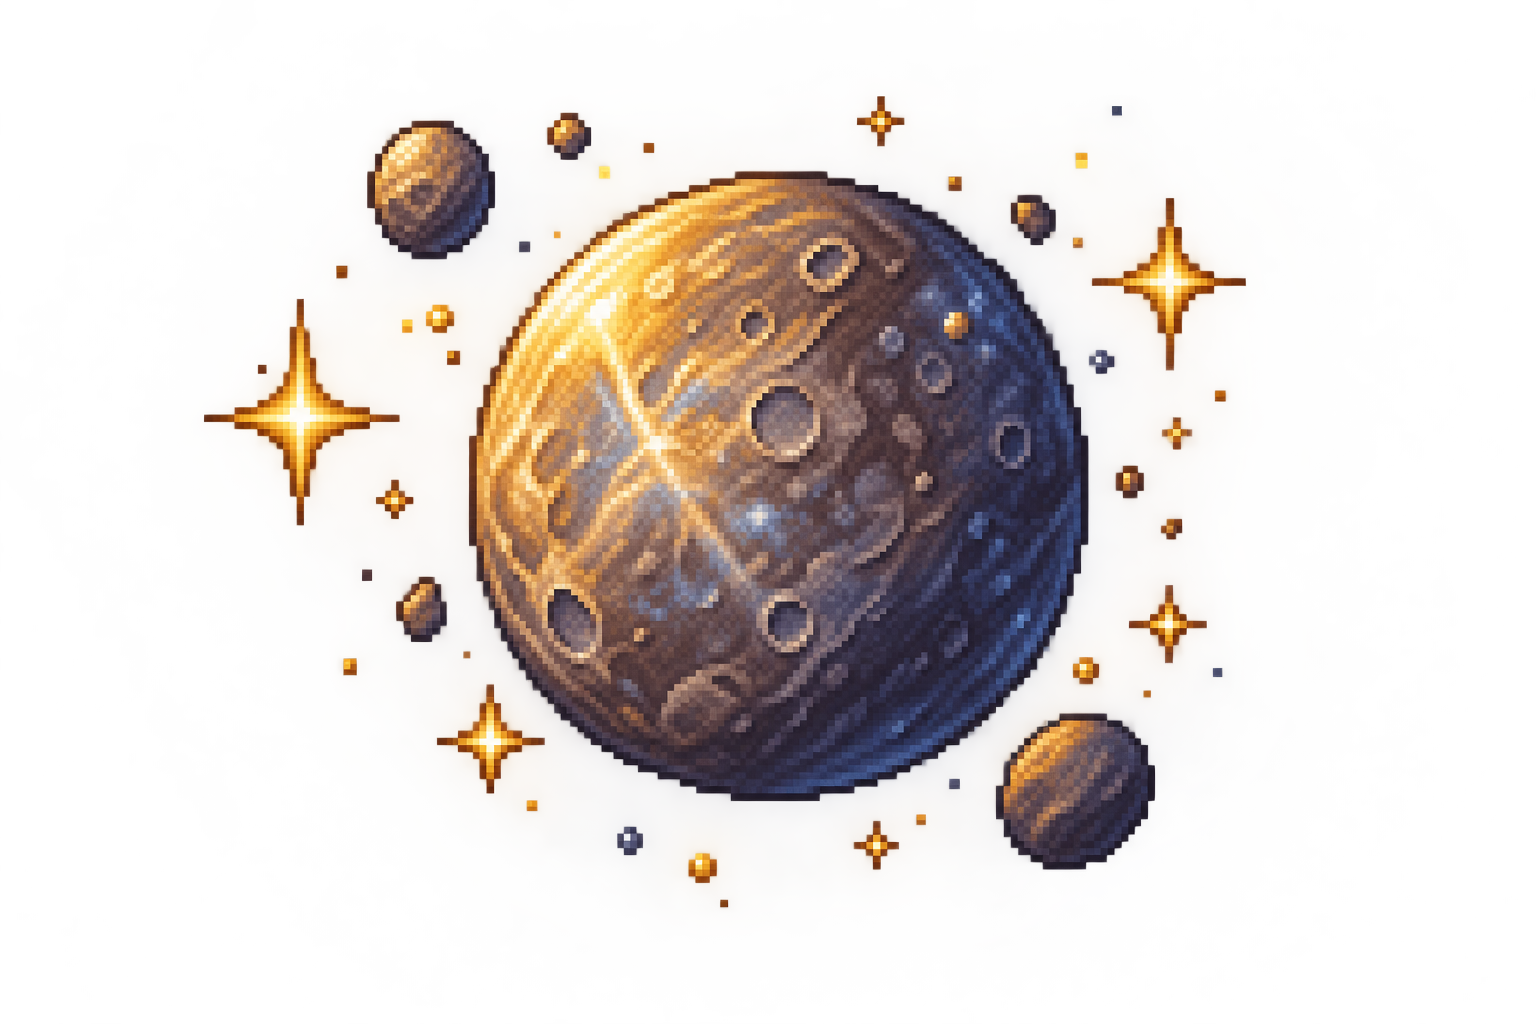
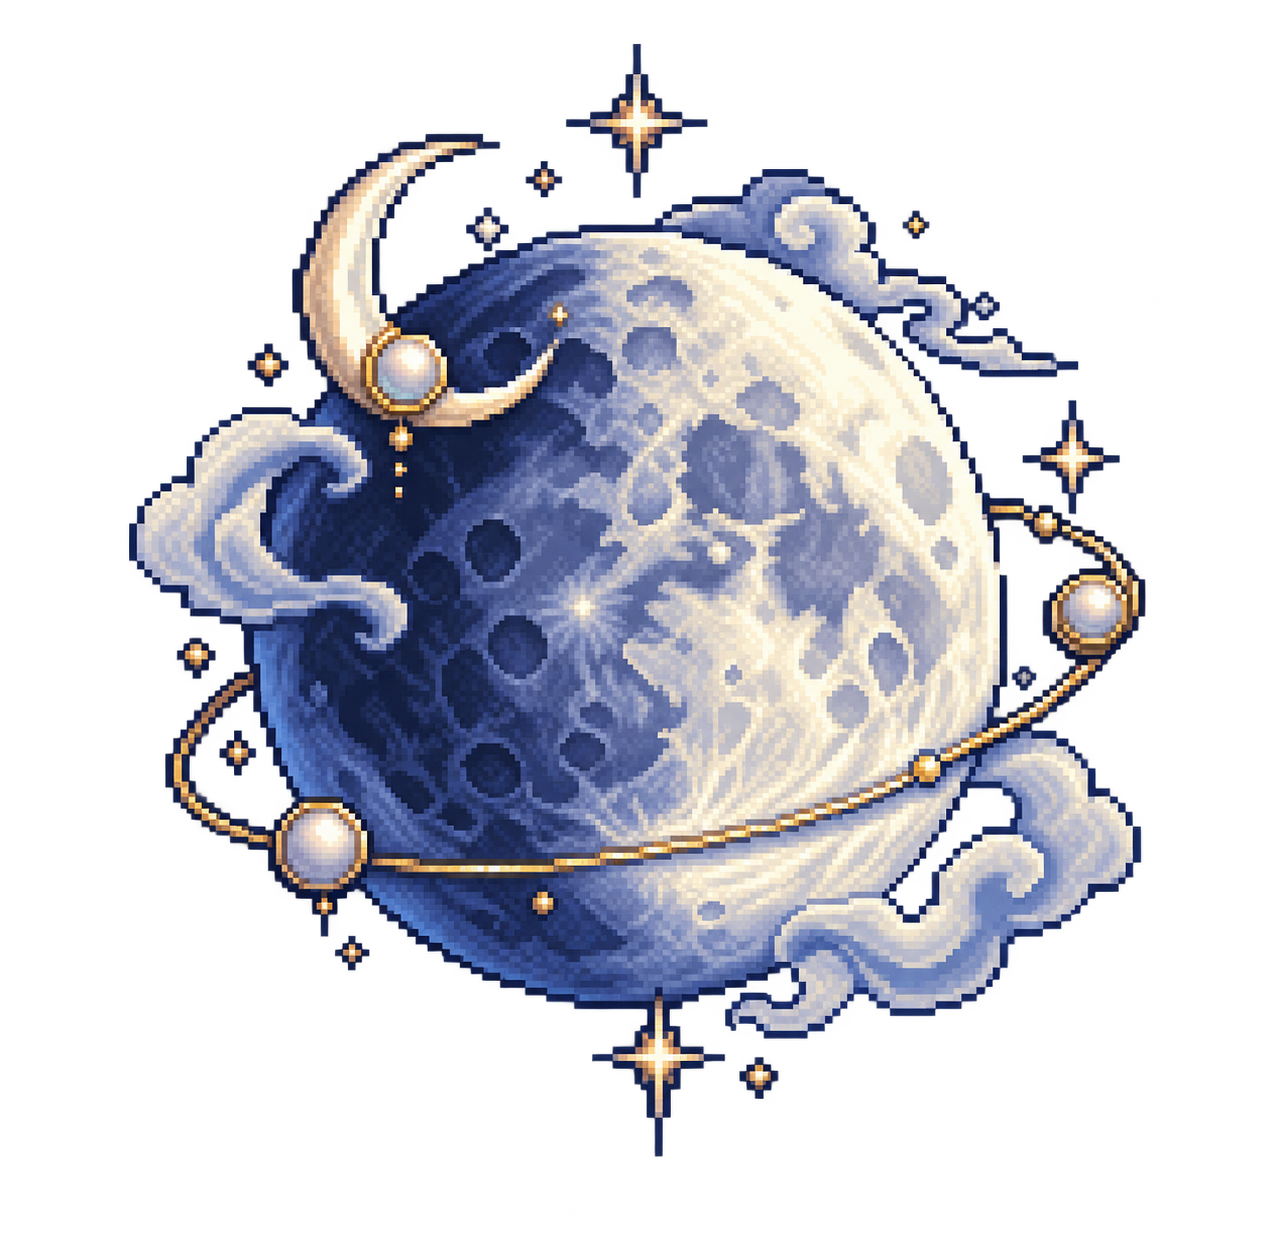
Add Venus/Mars/Mercury/Sun to the console demo, fix Moon distortion
- planet-moon.png was replaced with a new near-square image (1275x1233)
  but the HTML still had the old file's box (88x59, a 1.5 landscape
  ratio) hardcoded, stretching it badly. Recomputed from the new file's
  actual aspect ratio and alpha-core fill fraction: 66x64.
- Added planet-venus.png, planet-mars.png, planet-mercury.png (already
  dropped into assets/illustrations) and sun-emblem.png as three more
  draggable planets, sized the same way (target apparent sphere size /
  each image's own alpha-core fill fraction, aspect ratio preserved) and
  placed at previously-empty house centers on the chart.
- Console now has 7 draggable planets total: Saturn, Moon, Jupiter,
  Venus, Mars, Mercury, Sun.

Verified all 7 image files' real dimensions server-side via cache-busted
fetch (this session's browser profile was serving stale cached bytes for
already-tested URLs, unrelated to the actual deployed files).

diff --git a/index.html b/index.html
@@ -158,8 +158,12 @@
             <div class="console-chart-zone" id="chart-zone">
               <!-- house drop zones injected by JS -->
               <img class="draggable-planet" src="/assets/illustrations/planet-saturn.png" alt="Сатурн" draggable="false" style="left:25%; top:50%; width:74px; height:74px;" data-planet="saturn" />
-              <img class="draggable-planet" src="/assets/illustrations/planet-moon.png" alt="Луна" draggable="false" style="left:50%; top:25%; width:88px; height:59px;" data-planet="moon" />
+              <img class="draggable-planet" src="/assets/illustrations/planet-moon.png" alt="Луна" draggable="false" style="left:50%; top:25%; width:66px; height:64px;" data-planet="moon" />
               <img class="draggable-planet" src="/assets/illustrations/planet-jupiter.png" alt="Юпитер" draggable="false" style="left:75%; top:50%; width:48px; height:48px;" data-planet="jupiter" />
+              <img class="draggable-planet" src="/assets/illustrations/planet-venus.png" alt="Венера" draggable="false" style="left:50%; top:75%; width:56px; height:56px;" data-planet="venus" />
+              <img class="draggable-planet" src="/assets/illustrations/planet-mars.png" alt="Марс" draggable="false" style="left:75%; top:12%; width:58px; height:58px;" data-planet="mars" />
+              <img class="draggable-planet" src="/assets/illustrations/planet-mercury.png" alt="Меркурий" draggable="false" style="left:25%; top:91.67%; width:84px; height:56px;" data-planet="mercury" />
+              <img class="draggable-planet" src="/assets/illustrations/sun-emblem.png" alt="Солнце" draggable="false" style="left:25%; top:12%; width:51px; height:51px;" data-planet="sun" />
             </div>
           </div>
           <p class="console-caption">Можешь переместить планеты на&nbsp;карте в&nbsp;любой из&nbsp;домов</p>
